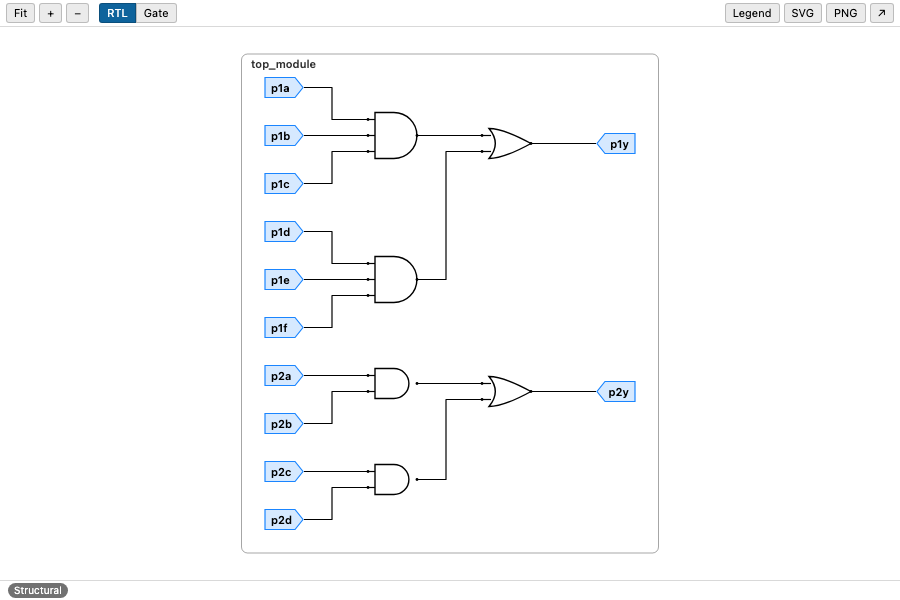
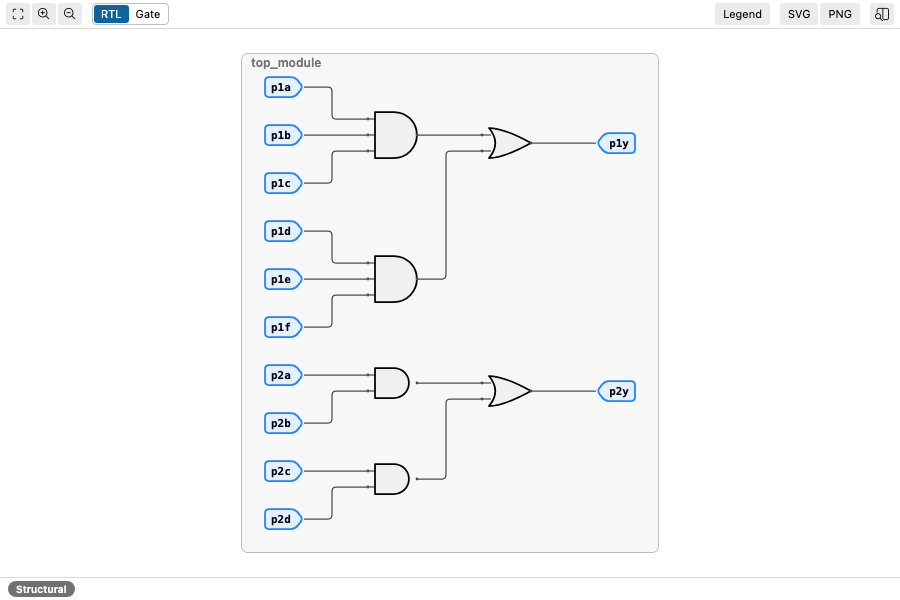
chore: version 0.4.0, changelog, readme and screenshots

diff --git a/README.md b/README.md
@@ -2,11 +2,11 @@
 
 Live Verilog schematic viewer in the VS Code sidebar. The structural view updates as you type; the gate-level view is synthesized with Yosys (native or the bundled wasm build) whenever the file parses cleanly. Built for learning Verilog on HDLBits: type a module header and the box appears, add an `assign` and the gate appears.
 
-Screenshots are in `media/screenshots/` (vsce cannot embed images without a published repository): `7458.png` and `module_add.png` (the v0.3 layout), `vectorgates-logical.png` (logical OR drawn with "any 1?" boxes), `legend-dark.png` (the Legend panel), `focus-mode.png` (hovering a wire), `contact-sheet.png` (every fixture at a glance).
+Screenshots are in `media/screenshots/` (vsce cannot embed images without a published repository): `7458.png` and `module_add.png` (the v0.4 look), `before-after.png` (7458 in 0.3.1 and 0.4.0 side by side), `vectorgates-logical.png` (logical OR drawn with "any 1?" boxes), `legend-dark.png` (the Legend panel), `focus-mode.png` (hovering a wire), `contact-sheet.png` (every fixture at a glance).
 
 ## First run
 
-1. Run `code --install-extension rtl-live-0.3.1.vsix --force`, then Cmd+Shift+P, "Developer: Reload Window".
+1. Run `code --install-extension rtl-live-0.4.0.vsix --force`, then Cmd+Shift+P, "Developer: Reload Window".
 2. Optional, faster synthesis: `brew install yosys`. Without it the bundled wasm engine is used, and its first run takes a few seconds.
 3. Click the RTL Live icon in the Activity Bar to open the "Schematic" view. You can drag it to the secondary side bar.
 4. 10-minute manual check using `test/fixtures/hdlbits/`:
@@ -19,7 +19,7 @@ Screenshots are in `media/screenshots/` (vsce cannot embed images without a publ
    - (1 min) Open `module_add.v`. Expect two dashed `add16` boxes, the carry wire, and `1'b0` on `cin`. In `module_add_full.v`, double-click `add16` to drill in, then use the breadcrumb to go back.
    - (1 min) Open `module_shift8.v`, `counter4.v` and `fsm_moore.v`. Expect a mux trapezoid, DFFs with clock triangles, and the adder feedback loop.
    - (1 min) Switch between a light and a dark theme (Cmd+K Cmd+T). Colours should follow.
-   - (1 min) Try the toolbar: export SVG, open in editor panel, fit, Legend. Hover a wire to focus its net; hover `||` in `vectorgates.v` to read what a logical OR does.
+   - (1 min) Try the toolbar: export SVG (dark lines on white, ready for a document), open in editor panel, fit, Legend. Hover a wire to focus its net; hover `||` in `vectorgates.v` to read what a logical OR does.
 5. If anything looks wrong, run "RTL Live: Show Log" and read "Known issues" in NOTES.md.
 
 If `code` is not on your PATH, run "Shell Command: Install 'code' command in PATH" from the Command Palette first, or use `"$HOME/Applications/Visual Studio Code.app/Contents/Resources/app/bin/code"`.
@@ -31,9 +31,10 @@ If `code` is not on your PATH, run "Shell Command: Install 'code' command in PAT
 - IEEE/ANSI gate symbols (AND, OR, XOR, NOT, BUF; NAND, NOR, XNOR with an output bubble, N inputs on one symbol), reduction gates, flip-flops with a clock triangle, latches without one and with a warning badge, arithmetic and comparator boxes, constants, split/join rippers for bit-selects, part-selects, concatenation and replication.
 - Logical operators drawn the way they work: `a || b` on buses goes through "any 1?" boxes (OR of all bits) into a plain 1-bit OR tagged "logical"; `!a` on a bus is one "all 0?" box; 1-bit inputs keep the plain gate.
 - Every element explains itself on hover in one plain sentence and quotes the source line it came from: wires ("3 separate wires drawn as one line (a bus)"), junction dots ("Wires connect here"), plain crossings ("These wires cross but do not connect"), bubbles, pins, slashes, ripper labels, gates, muxes, flip-flops, latches, constants, instances and black boxes.
+- Design: symbols in the editor foreground, wires a step lighter, one accent (the theme link colour) for ports and junction dots, calm fills, rounded wire bends that stay sharp next to any dot or pin, labels in the editor's monospace font and titles in the UI font. Every value is a token in `webview/render/tokens.ts`. High contrast themes get 2 px borders and no fills.
 - Legend button (key `l`): every symbol with its meaning, drawn with the diagram's own symbols.
-- Focus mode: hover a wire or a symbol to light its whole net and dim everything else; Escape clears.
-- Readable layout: wires of different nets stay at least 8 px apart, fan-out trunks get their own channels, pins sit 16 px apart, junction dots are 2.5 times the wire width, at least 20 px from each other and 16 px from any plain crossing, and only ever mark a T (never a crossing, never a 4-way), join and split labels sit above their own slice wires. The accuracy suite checks all of this on every fixture in all three views.
+- Focus mode: hover a wire or a symbol to light its whole net and fade everything else to 35 percent; a hovered element gets a soft accent glow; Escape clears.
+- Readable layout: wires of different nets stay at least 8 px apart, fan-out trunks get their own channels, pins sit 16 px apart, junction dots are 2.5 times the wire width, at least 20 px from each other and 16 px from any plain crossing, and only ever mark a T (never a crossing, never a 4-way), join and split labels sit above their own slice wires. The accuracy suite checks all of this on every fixture in all three views, and a 100-node diagram renders in under 16 ms.
 - Warnings on the wire: multiply driven bits (`y[3:2] has multiple drivers`; disjoint slice assigns are legal and draw as a join) and combinational loops carry a badge; the banner names the offending signal and bits.
 - Every fixture is checked for functional equivalence against its source with Icarus Verilog in both views (`docs/ACCURACY_REPORT.md`).
 - Hierarchy: instances of modules in the same file are boxes you can double-click to drill into, with a breadcrumb to go back. Modules that are not in the file (HDLBits' `mod_a`, `my_dff`, `add16`) are drawn as dashed black boxes with pin directions inferred from how they are connected.
@@ -41,7 +42,7 @@ If `code` is not on your PATH, run "Shell Command: Install 'code' command in PAT
 - Status badge: Structural or Editing (the text does not parse yet), RTL view / Gate view (green), Stale (amber: the last good diagram with the changed ports overlaid), plus the backend name and version; hover the badge for what it means. The error banner has one "Go to line N" button.
 - Syntax errors say what is missing and where, including at the end of the file (`missing ';'`, `missing ')' to close the port list`, `missing endmodule`); Verilator sharpens the message when it is installed. Ports recovered from a broken header stay visible, greyed.
 - Untitled files in Verilog mode render; untitled Plain Text that looks like Verilog gets a one-click "Set language to Verilog".
-- Export SVG (self-contained, theme colours inlined) and PNG (2x). "Open in editor panel" shows the same diagram in a full editor tab.
+- Export SVG and PNG (2x): dark lines on white with a 24 px margin and safe fonts by default, so the file looks finished in a document; set `rtlLive.exportPalette` to `theme` to keep the editor colours. "Open in editor panel" shows the same diagram in a full editor tab.
 - Keys inside the view: `f` fit, `+`/`-` zoom, `l` legend, `Escape` clear focus or close the legend, `Backspace` drill up.
 - Fully offline: no network, no telemetry.
 
@@ -56,6 +57,7 @@ If `code` is not on your PATH, run "Shell Command: Install 'code' command in PAT
 | `rtlLive.bubbles` | `true` | Draw a NOT that feeds a single gate as an inversion bubble on that gate. |
 | `rtlLive.structuralDebounceMs` | `60` | Delay between a keystroke and the structural update. |
 | `rtlLive.synthDebounceMs` | `300` | Delay after the last keystroke before synthesis runs. |
+| `rtlLive.exportPalette` | `print` | Colours of exported files: `print` is dark lines on white with a 24 px margin; `theme` keeps the editor colours. |
 | `rtlLive.lintWithVerilator` | `true` | When the file does not parse or synthesis fails and `verilator` is on PATH, run `verilator --lint-only` to sharpen the error message. |
 
 Settings apply live.
@@ -100,6 +102,8 @@ npm run test:integration
 npm run test:webview   # playwright; also writes artifacts/contact-sheet.png and the layout shots
 npm run test:packaged  # packages a vsix and runs the integration suite against the unzipped copy
 npm run test:accuracy:update  # rewrite the accuracy baseline after an intended change (review the diff)
+npm run test:perf      # render budget: a 100-node diagram in under 16 ms (runs alone, timing)
+npm run test:mutation  # Stryker: how many injected bugs the suites catch (hours; reports in artifacts/mutation/)
 npm run bench
 npm run package        # rtl-live-<version>.vsix
 ```
@@ -110,7 +114,7 @@ Simulation and waveforms, SystemVerilog-only constructs (interfaces, packages), 
 
 ## Credits
 
-Yosys and YoWASP (ISC), web-tree-sitter and tree-sitter-verilog (MIT), elkjs (EPL-2.0), d3 (ISC). The split/join net reconstruction follows the approach of netlistsvg (MIT). See THIRD_PARTY_NOTICES.md.
+Yosys and YoWASP (ISC), web-tree-sitter and tree-sitter-verilog (MIT), elkjs (EPL-2.0), d3 (ISC), codicons (CC-BY-4.0). The split/join net reconstruction follows the approach of netlistsvg (MIT). See THIRD_PARTY_NOTICES.md.
 
 ## License
 

diff --git a/CHANGELOG.md b/CHANGELOG.md
@@ -1,5 +1,20 @@
 # Changelog
 
+## 0.4.0
+
+Visual design release: calm, precise and readable, like a polished EDA tool or a textbook figure. Every value is a design token in `webview/render/tokens.ts`; the stylesheet repeats them on `:root` and a unit test keeps the two in step.
+
+- Symbols in the editor foreground at 1.75 px, wires a step lighter (70 percent) at 1.25 px, buses 2.5 px, the module frame 1 px. One accent, the theme link colour, for ports and junction dots only; warning and error colours only for real warnings and errors; everything else greyscale.
+- Gate and box bodies filled at 6 percent of the foreground, the module frame at 3 percent, dashed boxes (black boxes, logic clouds) unfilled. Node boxes have 6 px corners, port chevrons 4 px, muxes 3 px.
+- Wire bends get a 4 px arc, except within 8 px of a junction dot or a pin, so a rounded corner never reads as a connection.
+- Type: signal, port, pin and width labels in the editor's monospace font (11 px, 10 px for widths and slice ranges, muted); titles and operator glyphs in the UI sans at 12 px semibold.
+- Hover lifts an element with a soft 2 px accent glow and changes no colour; focus mode fades everything outside the net to 35 percent; the editor cursor match takes the accent. Transitions are 150 ms and off under prefers-reduced-motion.
+- High contrast themes: no fills, no glow, no shadows, 2 px borders in the theme's contrast colours.
+- Toolbar: 22 px controls, codicons for fit, zoom and open-in-panel, RTL and Gate as one segmented control; badges, banner, hint, breadcrumb, Legend and the empty, loading, error and stale states restyled on the same tokens.
+- Export: dark lines on white with a 24 px margin and safe font stacks by default, so the file looks finished outside VS Code; `rtlLive.exportPalette: "theme"` keeps the editor colours. PNG export sizes itself from the SVG.
+- Performance: the junction post-pass that keeps dots 20 px apart was quadratic in the number of wires and took 2.3 s on a 100-node diagram; it now indexes segments and scores each slide by what it changes, and the same diagram renders in 13 ms. The renderer's crossing markers use the same index.
+- Proof: `test/webview/v04.visual.spec.ts` renders every fixture in light and dark and the key fixtures plus the Legend in light, dark and high contrast; `scripts/v04-compare.mjs` writes before and after pairs. `test/webview/v04.hover.spec.ts` checks the hover glow, the focus fade, the high contrast rules and both export palettes. `npm run test:perf` holds the 16 ms render budget.
+
 ## 0.3.1
 
 Two layout fixes from docs/BUGS.md (items 19 and 20).
